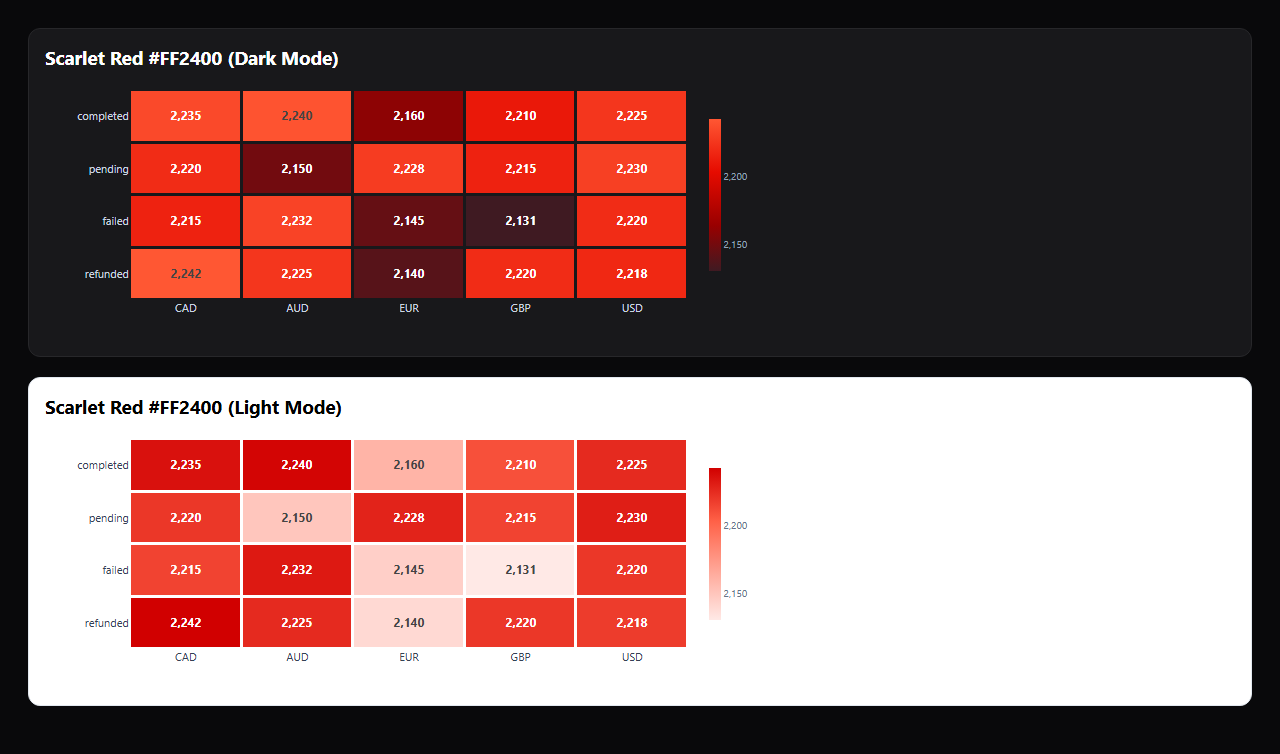
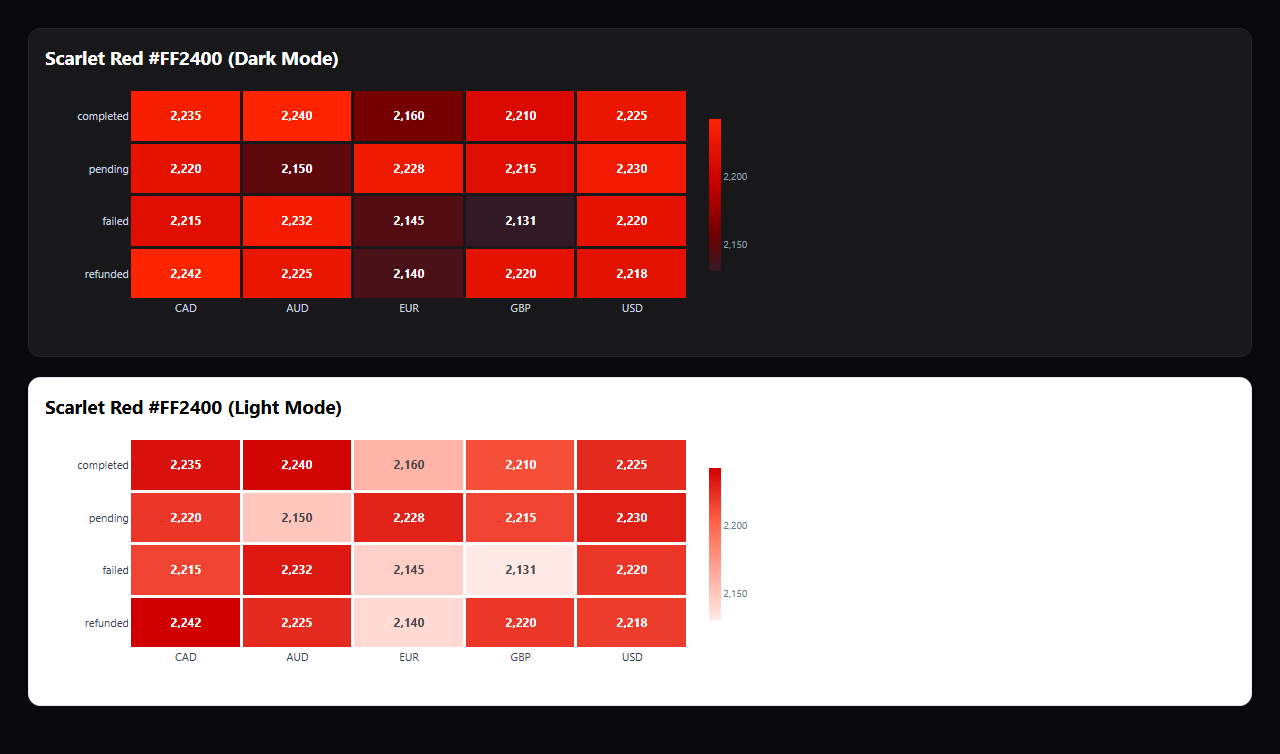
test: add test files for scarlet red plotly heatmap theme verification

Changed region(s): [[0.0938, 0.122, 0.375, 0.3966], [0.3438, 0.122, 0.5625, 0.3966]]

diff --git a/frontend/test_scarlet.html b/frontend/test_scarlet.html
@@ -67,7 +67,7 @@
         }, { responsive: true, displayModeBar: false });
       }
 
-      render('chart_dark', [[0,"#3f1a22"],[0.3,"#990000"],[0.65,"#e60b00"],[1,"#ff5733"]], true);
+      render('chart_dark', [[0,"#331924"],[0.25,"#730000"],[0.6,"#cc0000"],[1,"#FF2400"]], true);
       render('chart_light', [[0,"#ffe9e6"],[0.3,"#ffac9e"],[0.65,"#ff6147"],[1,"#d10000"]], false);
     </script>
   </body>
